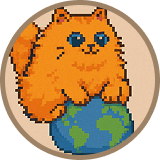
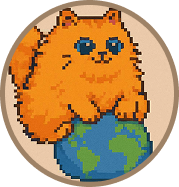
update naming convention and image size

diff --git a/src/collision.js b/src/collision.js
@@ -1,5 +1,5 @@
 import { Events, Bodies, World } from "matter-js";
-import { FRUITS } from "./fruitsData";
+import { CATS } from "./catsData";
 import { getPlayer } from "./switch";
 
 let userScore = 0;
@@ -17,20 +17,20 @@ export const setupCollisionHandler = (engine, world) => {
       if (bodyA.label === bodyB.label) {
         World.remove(world, [bodyA, bodyB]);
 
-        const index = FRUITS.findIndex((f) => f.label === bodyA.label);
-        if (index === FRUITS.length - 1) return;
+        const index = CATS.findIndex((f) => f.label === bodyA.label);
+        if (index === CATS.length - 1) return;
 
-        const newFruit = FRUITS[index + 1];
+        const newCat = CATS[index + 1];
         const merged = Bodies.circle(
           collision.collision.supports[0].x,
           collision.collision.supports[0].y,
-          newFruit.radius,
+          newCat.radius,
           {
             render: {
-              fillStyle: newFruit.color,
-              sprite: { texture: `/${newFruit.label}.png` },
+              fillStyle: newCat.color,
+              sprite: { texture: `/${newCat.label}.png` },
             },
-            label: newFruit.label,
+            label: newCat.label,
           }
         );
 
@@ -38,10 +38,10 @@ export const setupCollisionHandler = (engine, world) => {
 
         //  Update scores
         if (getPlayer() === "computer") { // User
-          userScore += newFruit.points;
+          userScore += newCat.points;
           document.getElementById("user-score").innerText = userScore;
         } else if (getPlayer() === "user") { // Computer
-          computerScore += newFruit.points;
+          computerScore += newCat.points;
           document.getElementById("ai-score").innerText = computerScore;
         }
       }
@@ -50,9 +50,9 @@ export const setupCollisionHandler = (engine, world) => {
       const isTopLineA = bodyA.label === "topLine";
       const isTopLineB = bodyB.label === "topLine";
 
-      const fruit = isTopLineA ? bodyB : isTopLineB ? bodyA : null;
+      const cat = isTopLineA ? bodyB : isTopLineB ? bodyA : null;
 
-      if (fruit && fruit.speed < 0.1) {
+      if (cat && cat.speed < 0.1) {
         gameOver = true;
         alert("Game Over!");
       }

diff --git a/src/controls.js b/src/controls.js
@@ -1,5 +1,5 @@
 import { Body, Sleeping } from "matter-js";
-import { addFruit, getCurrentBody } from "./fruit";
+import { addCat, getCurrentBody } from "./cat.js";
 import { isGameOver } from "./collision";
 import { findBestMove } from './alpha-beta.js';
 import { getPlayer, switchPlayer } from "./switch"; // ADDED THIS IMPORT
@@ -76,7 +76,7 @@ export const userControls = (world) => {
 // AI turn with alpha-beta pruning
 const handleComputerTurn = (world) => {
   if (isGameOver()) return;
-  addFruit(world);
+  addCat(world);
   const bestMove = findBestMove(world);
   const currentBody = getCurrentBody();
 
@@ -102,7 +102,7 @@ const handleComputerTurn = (world) => {
             // console.log("cCurrent Player:", getCurrentPlayer());
             switchPlayer("user"); // Switch to user
             // console.log("cCurrent Player:", getCurrentPlayer());
-            addFruit(world);
+            addCat(world);
           }, 1000);
         }, 500);
       } else {
@@ -129,7 +129,7 @@ const handleComputerTurn = (world) => {
           // Spawn fruit for user after computer is done
           setTimeout(() => {
             switchPlayer("user"); // Switch to user
-            addFruit(world);
+            addCat(world);
           }, 1000);
         }, 500);
       } else {

diff --git a/src/cat.js b/src/cat.js
@@ -1,0 +1,40 @@
+import { Bodies, World } from "matter-js";
+import { CATS } from "./catsData";
+
+let currentBody = null;
+let currentCat = null;
+
+// Exported functions to access current fruit and body
+export const getCurrentCat = () => currentCat;
+export const getCurrentBody = () => currentBody;
+
+// Function to add a new fruit to the world
+export function addCat(world) {
+  const cat = getRandomCat();
+
+  // Create new body for fruit
+  const body = Bodies.circle(300, 50, cat.radius, {
+    label: cat.label,
+    isSleeping: true,
+    render: {
+      fillStyle: cat.color,
+      sprite: { texture: `/${cat.label}.png` },
+    },
+    restitution: 0.2,
+  });
+
+  currentBody = body;
+  currentCat = cat;
+
+  World.add(world, body);
+}
+
+// Randomize falling fruit
+function getRandomCat() {
+  let cat;
+  do {
+    const index = Math.floor(Math.random() * 5);
+    cat = CATS[index];
+  } while (cat.label === currentCat?.label);
+  return cat;
+}

diff --git a/src/main.js b/src/main.js
@@ -2,12 +2,12 @@ import { engine, render, startEngine } from "./engine";
 import { setupWallBounds } from "./wall";
 import { userControls } from "./controls";
 import { setupCollisionHandler } from "./collision";
-import { addFruit } from "./fruit";
+import { addCat } from "./cat";
 
 const world = engine.world;
 
 setupWallBounds(world);
 userControls(world);
 setupCollisionHandler(engine, world);
-addFruit(world);
+addCat(world);
 startEngine();

diff --git a/src/catsData.js b/src/catsData.js
@@ -1,4 +1,4 @@
-export const FRUITS = [
+export const CATS = [
   {
     label: "kitten",
     radius: 40 / 2,
